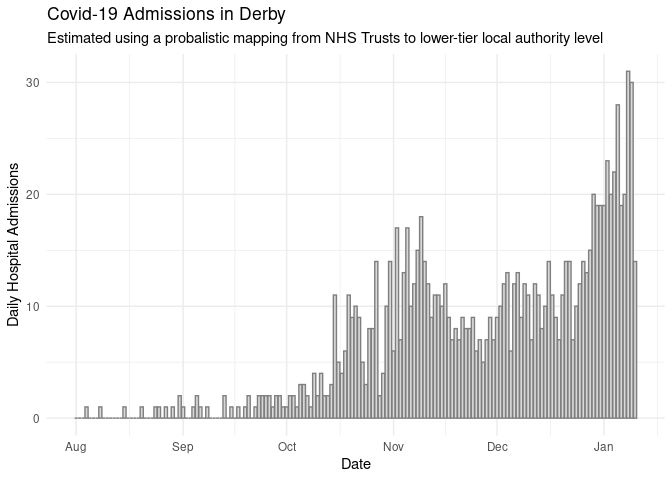
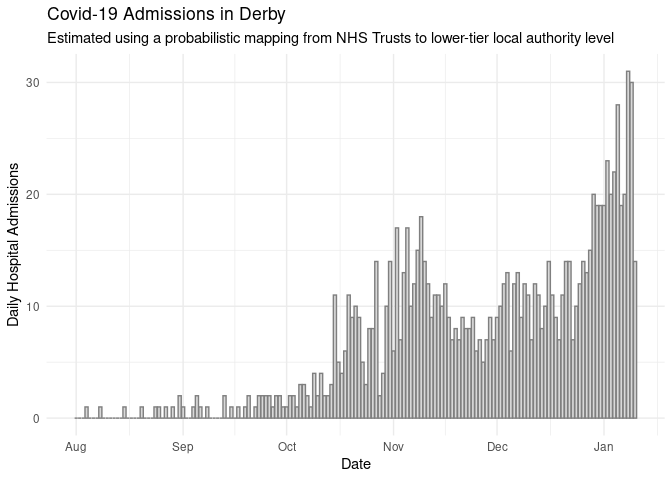
correct subtitle spelling

Changed region(s): [[0.2812, 0.0625, 0.9375, 0.0938]]

diff --git a/README.md b/README.md
@@ -88,7 +88,7 @@ adm %>%
   theme_minimal() +
   labs(x = "Date", y = "Daily Hospital Admissions",
        title = "Covid-19 Admissions in Derby", 
-       subtitle = "Estimated using a probalistic mapping from NHS Trusts to lower-tier local authority level")
+       subtitle = "Estimated using a probabilistic mapping from NHS Trusts to lower-tier local authority level")
 ```
 
 ![](man/figures/timeseries-1.png)<!-- -->
